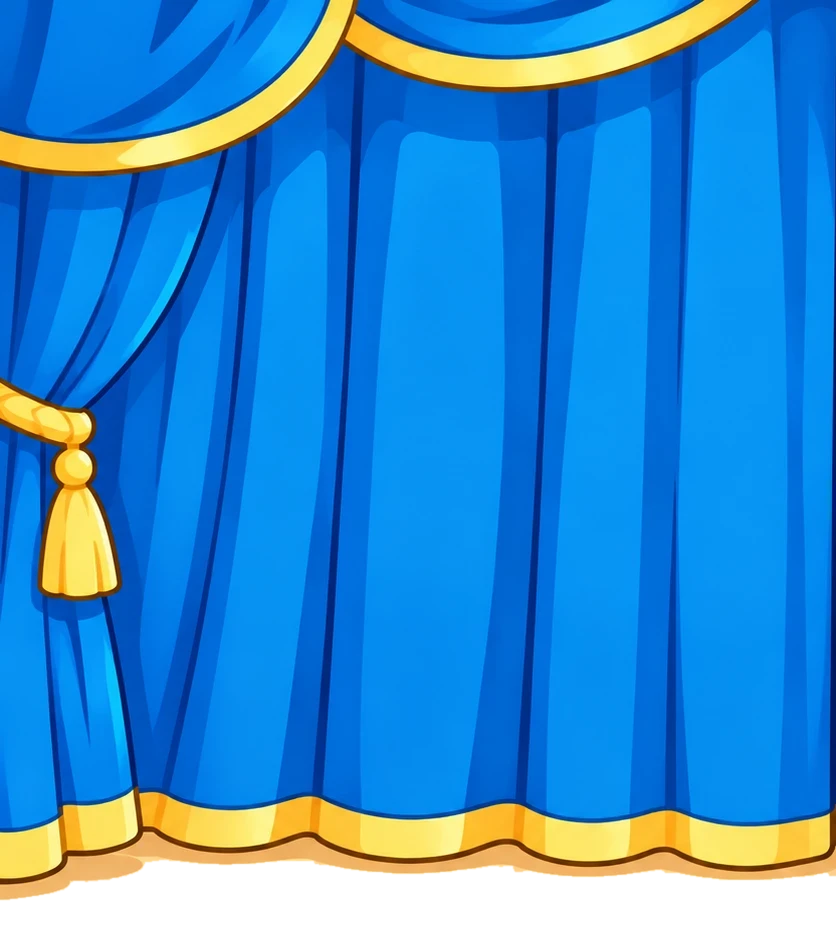
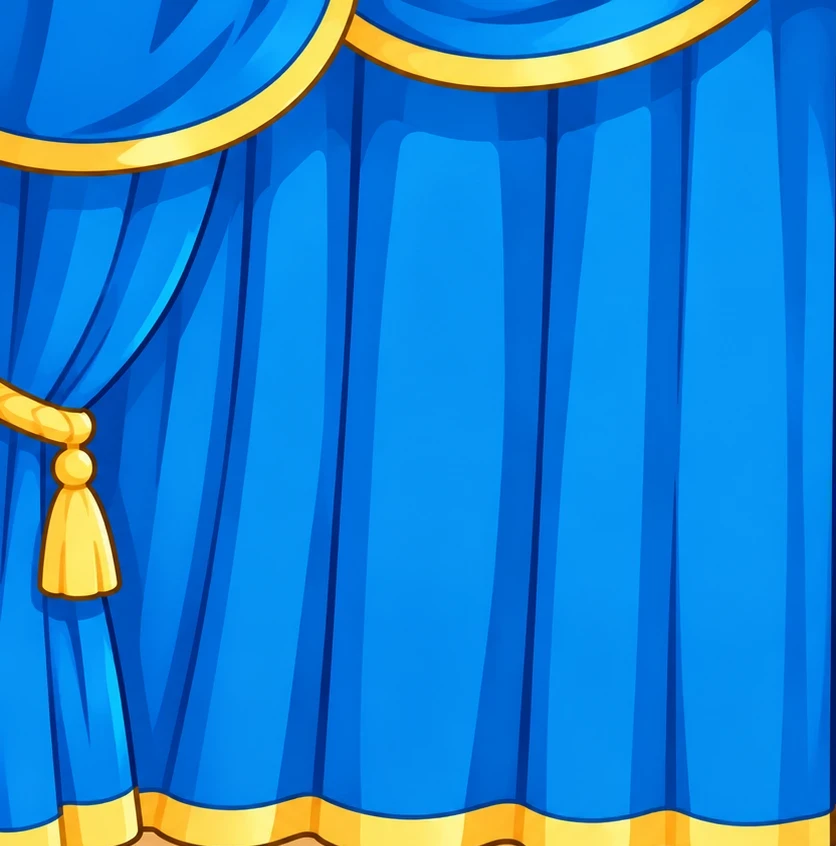
Mở rèm: rèm phủ trọn màn hình, bỏ phần sàn phía dưới (#265)
* Mở rèm: rèm phủ kín toàn màn hình như ảnh gốc (có diềm vàng trên, gấu vàng và sàn kem dưới)

Claude-Session: https://claude.ai/code/session_01Xqfit1TE88fdJNq9wU4RBg

* Mở rèm: lấy trọn tấm rèm (diềm trên → gấu vàng dưới), bỏ phần sàn kem phía dưới

Claude-Session: https://claude.ai/code/session_01Xqfit1TE88fdJNq9wU4RBg

---------

diff --git a/frontend/src/index.css b/frontend/src/index.css
@@ -1613,12 +1613,15 @@ h3,
 /* ===== Mở rèm vào Hội trường triển lãm (ExhibitTransition): hai cánh rèm xanh viền vàng trượt sang hai bên ===== */
 .sb-curtain-root { position: fixed; inset: 0; z-index: 9999; overflow: hidden; pointer-events: auto; opacity: 1; transition: opacity 300ms ease-in-out; }
 .sb-curtain-root.sb-curtain-leave { opacity: 0; pointer-events: none; }
-/* Khung rèm phủ kín màn hình (như background-size: cover); hai cánh mỗi cánh rộng một nửa khung. */
-.sb-curtain { position: absolute; top: calc((100vh - max(100vh, 56.3vw)) / 2); height: max(100vh, 56.3vw); width: max(50vw, 88.9vh); }
-.sb-curtain img { display: block; width: 100%; height: 100%; user-select: none; pointer-events: none; }
+/* Rèm phủ KÍN màn hình từ diềm vàng trên cùng tới gấu vàng ở đáy (không lấy phần sàn kem của ảnh gốc): màn rộng hơn 1672:899 thì kéo vừa khít, màn đứng thì phủ kiểu "cover". */
+.sb-curtain { position: absolute; top: 0; height: 100vh; width: 50vw; }
+.sb-curtain img { display: block; width: 100%; height: 100%; object-fit: fill; user-select: none; pointer-events: none; }
+@media (max-aspect-ratio: 1672 / 846) {
+  .sb-curtain { top: 0; height: 100vh; width: max(50vw, 98.8vh); }
+  .sb-curtain img { object-fit: cover; }
+}
 .sb-curtain-l { right: 50%; }
 .sb-curtain-r { left: 50%; }
-.sb-curtain-l img { object-position: right top; }
 .sb-curtain-open .sb-curtain-l { animation: sb-curtain-l 2000ms both; }
 .sb-curtain-open .sb-curtain-r { animation: sb-curtain-r 2000ms both; }
 /* 0–0,6s hé khe chậm (ease-in) · 0,6–1,5s kéo rộng, giảm tốc · 1,5–2,0s nảy nhẹ rồi nằm yên. Mỗi cánh trượt 84% bề rộng của nó → còn một dải ~16% ở mép (có dây buộc + tua). */
